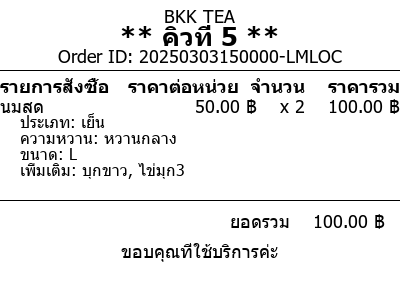
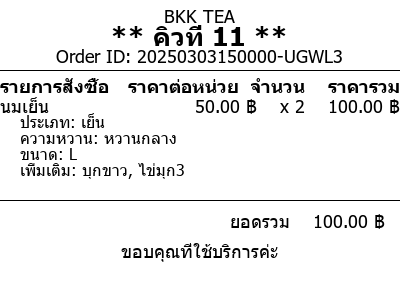
POST http://localhost:3000/employee/orders fix add_on_id ok now

Changed region(s): [[0.12, 0.06, 0.87, 0.21], [0.06, 0.33, 0.12, 0.39]]

diff --git a/src/employee-side/order/order.service.ts b/src/employee-side/order/order.service.ts
@@ -75,7 +75,7 @@ export class OrderService {
     private readonly ingredientUpdateRepository: Repository<IngredientUpdate>,
     @InjectRepository(Ingredient)
     private readonly ingredientRepository: Repository<Ingredient>,
-  ) { }
+  ) {}
 
   async findAll(): Promise<Order[]> {
     return this.orderRepository.find({
@@ -335,7 +335,7 @@ export class OrderService {
       ? latestOrder.queue_number + 1
       : 1;
 
-    // ค้นหา sales summary สำหรับวันนี้
+    // Find sales summary for today
     let salesSummary = await this.salesSummaryRepository.findOne({
       where: {
         date: Between(startOfDay, endOfDay),
@@ -344,7 +344,7 @@ export class OrderService {
       },
     });
 
-    // ถ้าไม่มี sales summary สำหรับวันนี้ ให้สร้างใหม่
+    // Create or update sales summary
     if (!salesSummary) {
       salesSummary = this.salesSummaryRepository.create({
         sales_summary_id: createOrderDto.sales_summary_id || uuidv4(),
@@ -356,7 +356,7 @@ export class OrderService {
         branch,
       });
     } else {
-      // อัพเดทข้อมูลที่มีอยู่
+      // Update existing sales summary
       salesSummary.total_revenue += createOrderDto.total_price;
       salesSummary.total_orders += 1;
       if (createOrderDto.cancel_status) {
@@ -364,10 +364,10 @@ export class OrderService {
       }
     }
 
-    // บันทึก sales summary
+    // Save sales summary
     await this.salesSummaryRepository.save(salesSummary);
 
-    // ใช้ ID จาก JSON ถ้ามี หรือสร้างใหม่จากวันที่และอักษรสุ่ม
+    // Create new order
     const newOrder = this.orderRepository.create({
       order_id:
         createOrderDto.order_id ||
@@ -382,14 +382,14 @@ export class OrderService {
       branch,
     });
 
-    console.log("SAVE NEW ORDER:", newOrder)
+    console.log('SAVE NEW ORDER:', newOrder);
 
     const savedOrder = await this.orderRepository.save(newOrder);
 
-    // คำนวณ total_amount รวม VAT 7%
+    // Calculate total amount with 7% VAT
     const totalAmount = createOrderDto.total_price * 1.07;
 
-    // สร้าง payment record ตามวิธีการชำระเงิน
+    // Create payment record
     const payment = this.paymentRepository.create({
       payment_id: createOrderDto.payment_id || uuidv4(),
       order: savedOrder,
@@ -412,7 +412,7 @@ export class OrderService {
 
     await this.paymentRepository.save(payment);
 
-    // ถ้าเป็นการชำระเงินสด ให้อัพเดทสถานะ order เป็น paid ทันที
+    // Update order paid status for cash payments
     if (createOrderDto.payment_method === PaymentMethod.CASH) {
       savedOrder.is_paid = true;
       if (savedOrder.cancel_status !== null) {
@@ -421,8 +421,10 @@ export class OrderService {
       await this.orderRepository.save(savedOrder);
     }
 
-    await Promise.all(
+    // Process order items
+    const savedOrderItems = await Promise.all(
       items.map(async (item) => {
+        // Validate menu, sweetness, size, and menu type
         const menu = await this.menuRepository.findOne({
           where: {
             menu_id: item.menu_id,
@@ -461,6 +463,7 @@ export class OrderService {
           );
         }
 
+        // Update ingredient stock
         try {
           await this.updateIngredientStock(
             item.menu_id,
@@ -475,7 +478,7 @@ export class OrderService {
           throw error;
         }
 
-        // Create order item first
+        // Create order item
         const orderItem = this.orderItemRepository.create({
           order_item_id: item.order_item_id || uuidv4(),
           quantity: item.quantity,
@@ -491,26 +494,47 @@ export class OrderService {
 
         const savedOrderItem = await this.orderItemRepository.save(orderItem);
 
-        // Create order item add-ons with reference to saved order item
+        // Process add-ons with ingredient retrieval from AddOn table
         const orderItemAddOns = await Promise.all(
           item.add_on_id.map(async (addon_id) => {
+            // Find AddOn with its related ingredient
+            const addon = await this.addOnRepository.findOne({
+              where: { add_on_id: addon_id },
+              relations: ['ingredient'], // Load related ingredient
+              select: {
+                ingredient: { ingredient_id: true },
+              },
+            });
+
+            if (!addon || !addon.ingredient) {
+              throw new NotFoundException(
+                `AddOn with ID ${addon_id} not found`,
+              );
+            }
+
+            const ingredientId = addon.ingredient.ingredient_id;
+
+            // Verify ingredient exists
             const ingredient = await this.ingredientRepository.findOne({
-              where: { ingredient_id: addon_id },
+              where: { ingredient_id: ingredientId },
             });
 
             if (!ingredient) {
               throw new NotFoundException(
-                `Ingredient with ID ${addon_id} not found`,
+                `Ingredient with ID ${ingredientId} not found`,
               );
             }
 
-            const addon = this.orderItemAddOnRepository.create({
+            // Create order item add-on
+            const orderItemAddOn = this.orderItemAddOnRepository.create({
               order_item_id: savedOrderItem.order_item_id,
-              ingredient_id: addon_id,
+              ingredient_id: ingredientId,
               owner,
               branch,
             });
-            const savedAddon = await this.orderItemAddOnRepository.save(addon);
+
+            const savedAddon =
+              await this.orderItemAddOnRepository.save(orderItemAddOn);
 
             return {
               ...savedAddon,
@@ -521,13 +545,15 @@ export class OrderService {
 
         return {
           ...savedOrderItem,
-          orderItem: orderItemAddOns,
+          orderItemAddOns,
         };
       }),
     );
 
+    // Retrieve and return the full order details
     return this.findOrderById(savedOrder.order_id);
   }
+
   async findAllOrders(
     owner_id: string,
     branch_id: string,
@@ -554,7 +580,7 @@ export class OrderService {
     });
 
     const orders = await this.orderRepository.find({
-      where: { owner: { owner_id }, branch: { branch_id }, status: "รอทำ" },
+      where: { owner: { owner_id }, branch: { branch_id }, status: 'รอทำ' },
       relations: [
         'order_item',
         'order_item.menu',
@@ -582,25 +608,25 @@ export class OrderService {
         },
         add_ons: item.orderItem
           ? item.orderItem.map((addon) => ({
-            ingredient_id: addon.ingredient.ingredient_id,
-            ingredient_name: addon.ingredient.ingredient_name,
-          }))
+              ingredient_id: addon.ingredient.ingredient_id,
+              ingredient_name: addon.ingredient.ingredient_name,
+            }))
           : [],
         details: [
           item.sweetnessLevel
             ? {
-              sweetness_id: item.sweetnessLevel.sweetness_id,
-              level_name: item.sweetnessLevel.level_name,
-            }
+                sweetness_id: item.sweetnessLevel.sweetness_id,
+                level_name: item.sweetnessLevel.level_name,
+              }
             : null,
           item.size
             ? { size_id: item.size.size_id, size_name: item.size.size_name }
             : null,
           item.menuType
             ? {
-              menu_type_id: item.menuType.menu_type_id,
-              type_name: item.menuType.type_name,
-            }
+                menu_type_id: item.menuType.menu_type_id,
+                type_name: item.menuType.type_name,
+              }
             : null,
         ].filter(Boolean),
       })),
@@ -642,10 +668,10 @@ export class OrderService {
         ...item,
         orderItem: item.orderItem
           ? item.orderItem.map((addon) => ({
-            order_item_id: addon.order_item_id,
-            ingredient_id: addon.ingredient_id,
-            ingredient_name: addon.ingredient?.ingredient_name,
-          }))
+              order_item_id: addon.order_item_id,
+              ingredient_id: addon.ingredient_id,
+              ingredient_name: addon.ingredient?.ingredient_name,
+            }))
           : [],
       })),
     };
